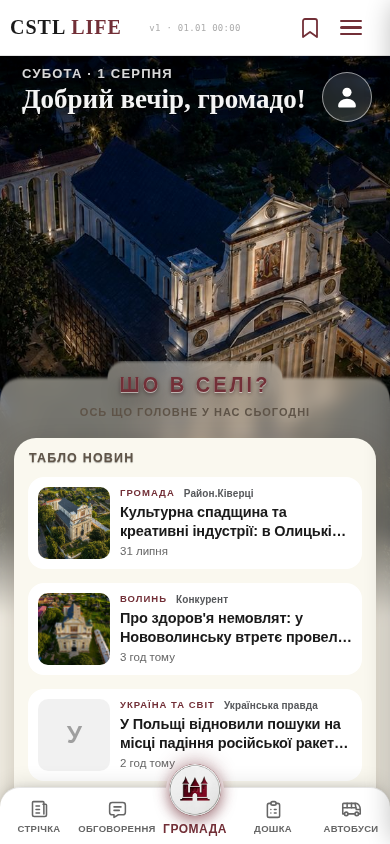
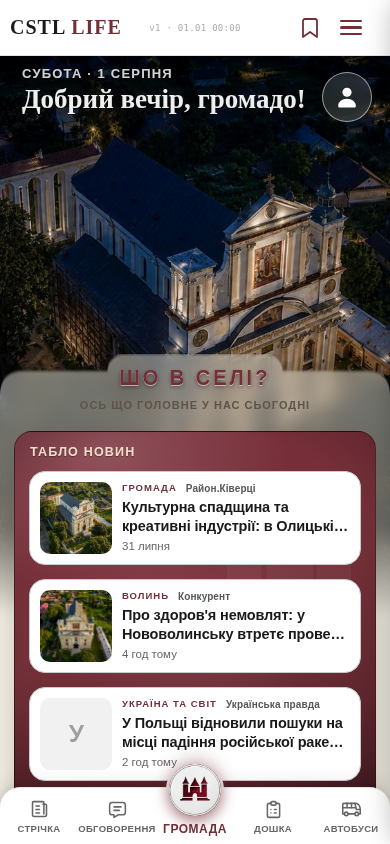
feat(табло): прилад повернуто багряним + обідок сторінки новин на картці
- style/news-card.css: .nc--mini дістав border (обідка не було взагалі —
  заміряно 0px, токен --nc-line не споживав ніхто)
- style/community.css: градієнт, віньєтка, глянець, силует замку і всі
  кольори тексту перевернуто назад під багряне тло; токени картки → --news-card/--news-line
- CACHE_NAME cstl-20260801-1811
- tests/tools/news-road1.mjs: інструмент порівняння доріг (+ serviceWorkers:block,
  без цього підміна фото мовчки не працювала)

Заміряно: картка 92→94px, віджет 408→414px (56.6%), картки рівні 94/94/94.
Стенди 31/31, 462/462.

Changed region(s): [[0.0, 0.4005, 1.0, 0.955], [0.1846, 0.8626, 0.2154, 0.8934]]

diff --git a/style/community.css b/style/community.css
@@ -4300,24 +4300,62 @@ textarea.cm-board-input.bm-invalid {
 
    ⚠ ЦІНА, названа вголос: Громада втрачає багряний акцент. Прийнято Вовою.
    ↩ Повернути прилад = відновити цей блок і `::before` з git-історії (коміт
-      цього рядка), плюс кольори тексту нижче — вони теж перевернуті на світле тло. */
+      цього рядка), плюс кольори тексту нижче — вони теж перевернуті на світле тло.
+
+   🔴 01.08, ПІЗНІШЕ ТОГО САМОГО ДНЯ — ПРИЛАД ПОВЕРНУТО (рішення Вови по знімках).
+   Дорогу 2 (світлий віджет) прожив один деплой. Порівняння зняли інструментом
+   `tests/tools/news-road1.mjs` — обидві дороги на живих фото, у контексті цілого
+   екрана. Що вирішило:
+   • висота однакова (406 проти 408px) — світлий віджет місця не економив;
+   • усі дефекти, через які дорогу 2 і затівали (рвані висоти 100/71/100,
+     перевантажений верхній рядок, різний формат часу), уже полагоджені окремо
+     і від кольору тла НЕ залежать — картки 92/92/92 в обох;
+   • «подвійної межі», яку аудит називав головним дефектом приладу, тут ніколи
+     не було: до зняття стояло `--nc-line: transparent`.
+   ➡ Тобто вибір звівся до характеру, а не до вимірної якості — і характер
+   Вова обрав багряний. Разом із ним ПОВЕРТАЮТЬСЯ кольори тексту нижче.
+   🆕 Відмінність від того, що було до зняття: картка тепер має ОБІДОК того самого
+   токена, що й сторінка новин (`--news-line`) — див. `.cm-news-top3` нижче. */
 .cm-block--news {
   position: relative;
-  background: var(--bg-card);
-  border-radius: var(--card-radius);
-  box-shadow: var(--card-shadow);
+  /* Насичений багряний як табло автобусів: глянець + багряний градієнт у темне +
+     ВІНЬЄТКА (затемнення по контуру) — рішення Роми 08.07, варіант B від 31.07
+     (кути 18, тонша рамка, тихіші тіні, без нижньої inset-лінії). */
+  background:
+    radial-gradient(120% 88% at 50% 42%, rgba(0,0,0,0) 48%, rgba(0,0,0,0.55) 100%),          /* віньєтка по контуру */
+    radial-gradient(120% 80% at 25% 6%, rgba(255,255,255,0.16) 0%, rgba(255,255,255,0) 42%), /* глянець згори */
+    linear-gradient(162deg, #7B303C 0%, #722F37 44%, #481C24 100%);                          /* винно-багряний → затемнений низ */
+  border: 1px solid rgba(0, 0, 0, 0.35);
+  border-radius: 18px;
+  box-shadow:
+    0 8px 20px rgba(0, 0, 0, 0.24),
+    0 2px 6px rgba(0, 0, 0, 0.18),
+    inset 0 1px 0 rgba(255, 255, 255, 0.14);
   overflow: hidden;
 }
-/* 🔴 01.08 — СИЛУЕТ ЗАМКУ ПРИБРАНО, і це вирішив ЗНІМОК, а не смак.
-   Спроба була: лишити силует, лише перефарбувати білі вежі в темні під світлу
-   поверхню. На екрані це дало ТРИ СІРІ ПРЯМОКУТНИКИ у правому куті — читались
-   як артефакт верстки, а не як натяк на замок.
-   Чому так вийшло: на багряному тлі вежі були СВІТЛІШІ за фон, тобто читались
-   як світло, що падає; око добудовувало силует. На світлому вони стали ТЕМНІШІ
-   за фон — тобто предметом, а предмет із трьох прямокутників замком не читається.
-   ➡ Знак, який працює лише в один бік яскравості, не можна просто інвертувати.
-   Той самий урок, що з накладкою шапки Дошки 28.07: «фізика та сама, знак
-   протилежний». Характер віджету тепер несе не тло, а зміст — три розділи. */
+/* Легкий силует замку в кутку — як фоновий акцент табло автобусів.
+   🔴 ІСТОРІЯ, яка пояснює, чому вежі СВІТЛІ і чому їх не можна «просто
+   перефарбувати». Коли 01.08 прилад знімали, силует спробували лишити, зробивши
+   вежі темними під світлу поверхню. На екрані це дало ТРИ СІРІ ПРЯМОКУТНИКИ —
+   артефакт верстки, а не натяк на замок. Причина: на багряному вежі СВІТЛІШІ за
+   фон, тобто читаються як світло, і око добудовує силует; на світлому вони стають
+   предметом, а предмет із трьох прямокутників замком не читається.
+   ➡ Знак, який працює лише в один бік яскравості, не можна інвертувати.
+   Тобто силует прив'язаний до багряного тла і живе рівно доти, доки живе прилад:
+   знімаєш прилад — прибирай і його, а не перефарбовуй. */
+.cm-block--news::before {
+  content: '';
+  position: absolute;
+  top: 34px; right: 18px;
+  width: 190px; height: 130px;
+  background:
+    linear-gradient(#ffffff, #ffffff) 60px 40px / 34px 90px no-repeat,
+    linear-gradient(#ffffff, #ffffff) 100px 10px / 46px 120px no-repeat,
+    linear-gradient(#ffffff, #ffffff) 150px 40px / 34px 90px no-repeat;
+  opacity: 0.035;   /* 31.07 (варіант B): 0.05 → 0.035, силует лише вгадується */
+  pointer-events: none;
+  z-index: 0;
+}
 /* Шапка-табличка табло — з тонкою розділовою гранню під нею.
    🔴 31.07: стала <button> (весь віджет веде в хаб). Через це знадобився скид
    власних стилів кнопки — `border`, `background` і особливо `font: inherit`:
@@ -4340,7 +4378,7 @@ textarea.cm-board-input.bm-invalid {
   text-align: left;
   cursor: pointer;
   -webkit-tap-highlight-color: transparent;
-  color: var(--ink-soft);   /* 01.08: було #F3DECB (кремове на багряному) — прилад знято */
+  color: #F3DECB;   /* 01.08 (прилад повернуто): кремове на багряному */
   font-size: 12.5px;
   font-weight: 800;
   letter-spacing: 1.2px;
@@ -4362,10 +4400,11 @@ textarea.cm-board-input.bm-invalid {
   flex: none;
   padding: 3px 8px;
   border-radius: 999px;
-  /* 01.08: було світле на багряному. Тепер акцент проєкту на світлому — бейдж
-     мусить лишатись помітним, бо це єдине, що каже «є непрочитане». */
-  background: var(--news-accent);
-  color: #FFFFFF;
+  /* 01.08 (прилад повернуто): світла напівпрозора пігулка на багряному.
+     ⚠ Бордовий `--news-accent` тут не годиться — на багряному тлі бейдж
+     зник би, а він єдине, що каже «є непрочитане». */
+  background: rgba(255, 255, 255, 0.16);
+  color: #FFF1F3;
   font-size: 10.5px;
   font-weight: 800;
   letter-spacing: 0.2px;
@@ -4378,8 +4417,10 @@ textarea.cm-board-input.bm-invalid {
 .cm-block--news .cm-block-body {
   position: relative;
   z-index: 1;
-  /* 01.08: рожеве світіння прибрано — воно існувало лише щоб «підсвітити екран
-     приладу» на багряному тлі. На світлій поверхні воно давало брудну пляму. */
+  /* 01.08 (прилад повернуто): мʼяке центральне світіння «екрана» — воно має сенс
+     рівно доти, доки тло багряне; на світлій поверхні давало брудну пляму. */
+  background:
+    radial-gradient(75% 55% at 50% 50%, rgba(255, 170, 185, 0.16) 0%, rgba(255, 140, 160, 0.04) 48%, rgba(255, 140, 160, 0) 72%);
   margin: 0 4px;
   padding: 2px 10px;   /* +6px боків (перенесено з .cm-news-feed): це НЕ-overflow батько → бокова винна зона тепер скролить СТОРІНКУ, а не стрічку (п.10) */
   touch-action: pan-y;   /* 12.07: явна підказка Safari — ця зона віддає вертикальний свайп СТОРІНЦІ, не бореться зі стрічкою всередині (п.10, посилення) */
@@ -4397,7 +4438,7 @@ textarea.cm-board-input.bm-invalid {
   z-index: 1;
   padding: 0 12px 10px;
   margin-top: 6px;
-  border-top: 1px solid rgba(0, 0, 0, 0.08);   /* 01.08: було світле на багряному */
+  border-top: 1px solid rgba(255, 255, 255, 0.16);   /* 01.08 (прилад повернуто): світле на багряному */
 }
 
 /* 🔴 31.07: ТРИ ЧІПИ-ФІЛЬТРИ ПРИБРАНІ (рішення Вови) — разом із ними пішли
@@ -4415,7 +4456,7 @@ textarea.cm-board-input.bm-invalid {
   padding: 11px 4px 9px;
   border: none;
   background: transparent;
-  color: var(--news-accent);   /* 01.08: було кремове на багряному; акцент лишає дію помітною */
+  color: rgba(255, 236, 240, 0.92);   /* 01.08 (прилад повернуто): кремове на багряному */
   /* 🔴 31.07 (крок 6). Вова: «УСІ НОВИНИ треба, може, ВЕЛИКИМИ БУКВАМИ написати,
      бо так буде краще». Капс тут доречний і структурно: це не речення, а назва
      дії — рівно як «ТАБЛО НОВИН» у шапці того самого віджета, яке вже капсом.
@@ -4430,7 +4471,7 @@ textarea.cm-board-input.bm-invalid {
   -webkit-tap-highlight-color: transparent;
 }
 .cm-news-all svg { width: 16px; height: 16px; }
-.cm-news-all:active { opacity: 0.6; }   /* 01.08: було color:#fff — на світлому це зникнення */
+.cm-news-all:active { color: #fff; }   /* 01.08 (прилад повернуто): натиск = яскравішає до білого */
 
 /* 🔴 31.07: `.cm-news-feed` (вкладений скролер) ВИДАЛЕНО РАЗОМ ІЗ ПРАВИЛАМИ.
    Він мав `max-height: 465px; overflow-y: auto` при вмісті 6 933px — тобто ховав
@@ -4467,18 +4508,28 @@ textarea.cm-board-input.bm-invalid {
 .cm-news-top3 {
   --nc-accent: var(--news-accent);
   --nc-excl: #9A6B00;
-  /* 🔴 01.08 (дорога 2): картка стала БІЛОЮ З ОБІДКОМ — так само, як у хабі.
-     Раніше тут було `--nc-card: var(--bg-card)` без обідка: на багряному тлі
-     картка виступала сама, і сірий обідок хаба читався б як чужа деталь. Коли
-     прилад знято, тло під карткою стало тим самим `--bg-card` — тобто картка
-     зливалася б із блоком, і межу мусить дати саме обідок.
-     ➡ Побічна вигода, заради якої все й робилось: віджет і хаб тепер малюють
-     новину ОДНАКОВО. Вова 01.08 про хаб: «треба як було до цього, в ободку».
+  /* 🔴 01.08 — КАРТКА БЕРЕ ТІ САМІ ТОКЕНИ, ЩО Й СТОРІНКА НОВИН.
+     Замовлення Вови дослівно: «добав ободок такий, як в відкритій сторінці
+     новини». Тому тут не власні значення, а рівно ті, якими малюється картка
+     хаба (`style/base.css`): `--news-card` (біла поверхня) і `--news-line`
+     (обідок `#C9CBCE`). Одна новина — один вигляд на всьому шляху
+     табло → хаб → стаття.
+     ⚠ Знайдено при виконанні: обідка тут не було ВЗАГАЛІ, хоча цей самий
+     коментар раніше стверджував протилежне. Токен виставлявся, але правило
+     `border` мали лише варіанти хаба (`.nc--row` / `.nc--lead`), а варіант
+     табла `.nc--mini` — ні; заміряно на живій сторінці `border-top-width` = 0px.
+     Правило додано в `style/news-card.css`, тобто у КОМПОНЕНТ: форму картки
+     екран описувати не має права, за цим стежить `tests/news-widget.mjs`.
+     🔬 Чому обідок тут працює інакше, ніж у хабі, і це нормально: у хабі він
+     несуча конструкція — біла картка на світлому фоні дає лише **1.162:1**, без
+     обідка вона попливе. На багряному та сама картка дає **9.64:1**, тобто межу
+     тримає саме тло, а обідок лишається тонким кантом, який зшиває вигляд із
+     хабом. Одна деталь — дві різні ролі залежно від фону.
      ⚠ `--nc-radius` задано ЯВНО, бо велика перша й компактні рядки — різні
      варіанти з різними стандартними кутами (14 і 16); у межах одного віджета кути
      мусять збігатись, інакше три картки в стовпчику виглядають зібраними нашвидку. */
-  --nc-card: #FFFFFF;
-  --nc-line: rgba(0, 0, 0, 0.09);
+  --nc-card: var(--news-card);
+  --nc-line: var(--news-line);
   --nc-radius: 16px;
 
   /* 🔴 01.08 — КАТЕГОРІЯ У ВІДЖЕТІ НЕ МАЛЮЄТЬСЯ.

diff --git a/style/news-card.css b/style/news-card.css
@@ -231,12 +231,25 @@ img.nc-img { display: block; object-fit: cover; }
    у таблі карток рівно три, вони лежать на багряному градієнті, і без власної
    поверхні текст ліг би просто на фон. Мініатюра 72×72 тримає рядок ~96px
    ОДНАКОВИМ незалежно від того, чи є в новини фото. */
+/* 🔴 01.08 — ОБІДОК ДОДАНО (замовлення Вови: «добав ободок такий, як у відкритій
+   сторінці новини»). Тобто той самий засіб і той самий токен, що в `.nc--row` /
+   `.nc--lead` вище, — новина обводиться однаково скрізь, де вона показується.
+   ⚠ Знайдено при виконанні: обідка тут не було ВЗАГАЛІ, хоча коментар у
+   `community.css` стверджував «картка стала білою з обідком, як у хабі».
+   Заміряно на живій сторінці: `border-top-width` = **0px**, тобто токен
+   `--nc-line`, який віджет сумлінно виставляв, не споживав ніхто — правило
+   `border` мали лише варіанти хаба. Опис і код розійшлись, і саме цю розбіжність
+   Вова побачив оком.
+   📐 Наслідок розміру, названий до пушу: картка стає на 2px вища і на 2px ширша
+   (по 1px обідка з боку); `padding: 10px` не чіпаємо, тож текстова колонка
+   вужчає рівно на 2px. Заміряно: картка 92 → 94px, віджет 408 → 414px. */
 .nc--mini {
   display: flex;
   align-items: flex-start;
   gap: 10px;
   padding: 10px;
   background: var(--nc-card, var(--bg-card));
+  border: 1px solid var(--nc-line, #C9CBCE);
   border-radius: var(--nc-radius, 16px);
   overflow: hidden;
   transition: opacity 0.15s, transform 0.1s;

diff --git a/sw.js b/sw.js
@@ -1,7 +1,7 @@
 // sw.js — CSTL LIFE Service Worker
 // Кешує статичні файли для офлайн-роботи і швидкого завантаження
 
-const CACHE_NAME = 'cstl-20260801-1521';
+const CACHE_NAME = 'cstl-20260801-1811';
 
 // Precache (попереднє кешування) — статичні файли які не змінюються часто
 // index.html тут — як fallback для офлайну (на fetch використовується network-first)

diff --git a/CSTL NEWS VOVA/_ai-tools/SESSION_STATE_VOVA.md b/CSTL NEWS VOVA/_ai-tools/SESSION_STATE_VOVA.md
@@ -5,6 +5,75 @@
 
 ---
 
+## 📝 2026-08-01 (сесія U) — ТАБЛО НОВИН: ПРИЛАД ПОВЕРНУТО + ОБІДОК СТОРІНКИ НОВИН
+
+**Гілка:** `claude/startuem-6ecnk0` · **`CACHE_NAME = cstl-20260801-1811`** ·
+журнал: `_session-log/vova-2026-08-01.md` · стенди **31/31 · 462/462**.
+
+### Рішення Вови
+Дорога 2 (світлий віджет, PR #734) прожила один деплой. Подивившись знімки обох
+доріг на живих фото і в контексті цілого екрана, Вова: **«Давай багряний, і добав
+ободок такий як в відкритій сторінці новини»**.
+
+### Чим це обґрунтовано (замір, не смак)
+| | зараз | дорога 1 |
+|---|---|---|
+| висота віджета | 406px (55.5%) | 408px (55.8%) |
+| картки | 92/92/92 | 92/92/92 |
+
+➡ Світлий віджет **не давав виграшу**: висота та сама, а всі дефекти, заради яких
+прилад і знімали (рвані висоти 100/71/100, перевантажений верхній рядок, різний
+формат часу), уже полагоджені окремо і від кольору тла не залежать. Тобто вибір
+чесно звівся до характеру — і характер обрано багряний.
+⚠ Заразом зʼясувалось: **«подвійної межі», яку аудит називав головним дефектом
+приладу, ніколи не існувало** — до зняття стояло `--nc-line: transparent`.
+
+### 🔴 ОБІДКА НЕ БУЛО ВЗАГАЛІ — і саме це Вова побачив оком
+Коментар у `community.css` стверджував «картка стала БІЛОЮ З ОБІДКОМ, як у хабі».
+**Заміряно на живій сторінці: `border-top-width` = `0px`.** Токен `--nc-line`
+віджет виставляв, але правило `border` мали лише `.nc--row` / `.nc--lead`
+(варіанти хаба), а варіант табла `.nc--mini` — ні. Опис і код розійшлись.
+➡ Правило додано в **`style/news-card.css`** (компонент), а не у віджет: сторож
+`tests/news-widget.mjs` стежить, щоб екран задавав лише токени.
+
+### Змінено
+- `style/news-card.css` — `.nc--mini` дістав `border: 1px solid var(--nc-line)`.
+- `style/community.css` — повернуто градієнт, віньєтка, глянець, `::before`
+  (силует замку) і всі перевернуті кольори: шапка `#F3DECB`, бейдж «N нових»
+  напівпрозорий, світіння «екрана», світла лінія контролів, «УСІ НОВИНИ» кремове.
+  Токени картки → `var(--news-card)` / `var(--news-line)` — ті самі, що на сторінці новин.
+- `sw.js` — `CACHE_NAME`.
+
+📐 **Опис наслідку справдився до пікселя:** обіцяв картку 92 → 94px і віджет
+408 → 414px; заміряно після — **94/94/94, віджет 414px (56.6%)**.
+
+### 🔬 Чому обідок тут працює інакше, ніж у хабі (і це нормально)
+У хабі він **несуча конструкція**: біла картка на світлому фоні дає лише **1.162:1**.
+На багряному та сама картка дає **9.64:1** — межу тримає тло, а обідок лишається
+тонким кантом, який зшиває вигляд віджета з хабом. Одна деталь, дві ролі.
+
+### 🔴 Дві пастки виміру (обидві ледь не дали хибний висновок)
+1. **«Рвані висоти повернулись» — ні.** Прогін показав 102/102/94, схоже на регрес.
+   Порівняння з чистим HEAD (`git stash`) дало **100/100/92 без моїх змін** — тобто
+   рваність була й до того, а обідок додав рівно +2px усім трьом. Причина рваності:
+   плейсхолдер битого фото `.nc-img.img-fallback` = **80px**, монограма = **72px**.
+   ⬜ **НЕ чіпав** (HOT_RULES №9) — видно лише коли фото не завантажилось.
+2. **Підміна фото в інструменті мовчки не працювала:** лічильник дав `0` попри
+   правило `page.route` — запити через **Service Worker** Playwright не перехоплює,
+   а `sw.js` обслуговує саме картинки. Знімок при цьому виглядав правдоподібно.
+   Полагоджено `serviceWorkers: 'block'`.
+
+### Інструмент
+`tests/tools/news-road1.mjs` — показує обидві дороги накладеним `<style>` поверх
+живої сторінки, з підміною фото на локальні. Бойовий код не чіпає.
+⚠ Наявний `news-roads.mjs` для цього вже не годився: він писався до зняття
+приладу і після #734 показував не ту дорогу.
+
+### ⬜ Чекає живої перевірки Вови
+Шрифт і кольори на iPhone, як обідок читається оком на багряному. З пісочниці недосяжно.
+
+---
+
 ## 📝 2026-08-01 (сесія T) — АУДИТ БЕЗПЕКИ: «анонім лише переглядає» доведено до бази
 
 **Гілка:** `claude/startuem-yky235` · **`CACHE_NAME` НЕ чіпано** — змін у `src/`,

diff --git a/_session-log/vova-2026-08-01.md b/_session-log/vova-2026-08-01.md
@@ -78,3 +78,51 @@
    почався контент»; багряний продовжує темну масу, і межа hero зникає.
 
 ⬜ Чекаю рішення Вови. Бойовий код не чіпав.
+
+---
+
+## Дія 2 — «Давай багряний, і добав ободок такий як в відкритій сторінці новини»
+
+**Рішення Вови:** прилад повертаємо (дорога 1), картці — обідок сторінки новин.
+`CACHE_NAME` 1521 → **`cstl-20260801-1811`**.
+
+### 🔴 Знахідка, яку виявило саме це замовлення: обідка не було ВЗАГАЛІ
+Коментар у бойовому `community.css` стверджував «картка стала БІЛОЮ З ОБІДКОМ —
+так само, як у хабі». **Заміряно на живій сторінці: `border-top-width` = `0px`.**
+Токен `--nc-line` віджет виставляв, але споживати його не було кому — правило
+`border` мали лише `.nc--row` / `.nc--lead` (варіанти хаба), а варіант табла
+`.nc--mini` — ні. Тобто опис і код розійшлись, і саме цю розбіжність Вова побачив
+оком. ➡ Правило додано в `style/news-card.css` (КОМПОНЕНТ), а не у віджет: за цим
+стежить `tests/news-widget.mjs` («табло НЕ перевизначає властивості картки»).
+
+### Змінено
+| Файл | Що |
+|---|---|
+| `style/news-card.css` | `.nc--mini` дістав `border: 1px solid var(--nc-line)` |
+| `style/community.css` | повернуто градієнт + віньєтка + глянець + `::before` (силует замку); назад перевернуто кольори: шапка `#F3DECB`, бейдж «N нових» напівпрозорий, світіння «екрана», лінія контролів світла, «УСІ НОВИНИ» кремове; токени картки → `--news-card` / `--news-line` |
+| `sw.js` | `CACHE_NAME` |
+
+### 📐 Опис наслідку ДО пушу (HOT_RULES №6) — і він справдився точно
+Обіцяв: картка 92 → 94px (по 1px обідка згори й знизу), віджет 408 → 414px.
+Заміряно після: **94/94/94, віджет 414px (56.6%)**. Збіг до пікселя.
+
+### 🔴 Дві пастки виміру, які ледь не дали хибний висновок
+1. **«Рвані висоти повернулись» — ні.** Перший прогін показав 102/102/94, і це
+   виглядало як мій регрес. Перевірка порівнянням з чистим HEAD (`git stash`)
+   дала **100/100/92 без моїх змін** — тобто рваність існувала й до мене, а моя
+   зміна додала рівно +2px усім трьом. Причина рваності інша: плейсхолдер битого
+   фото `.nc-img.img-fallback` міряє **80px**, а монограма — **72px**.
+   ⬜ **НЕ чіпав** (HOT_RULES №9): це видно лише коли фото не завантажилось.
+2. **Підміна фото мовчки не працювала.** Лічильник показав `підмінено: 0`, хоча
+   правило `page.route` стояло: запити через **Service Worker** Playwright не
+   перехоплює, а `sw.js` обслуговує саме картинки. Знімок при цьому виглядав
+   правдоподібно — брехав би тихо. Полагоджено `serviceWorkers: 'block'`;
+   після цього підмінено 2 картинки і висоти стали рівними.
+
+### ✅ Перевірено
+`node build.js` (check-imports 47 файлів чисто) · **`npm test` — 31/31 стендів,
+462/462 перевірок зелені**, зокрема `news-widget 59/59`.
+Знімки бойового стану — `shots/road1/0-зараз*.png`.
+
+⬜ **Не перевірено мною:** живий iPhone (шрифт, реальні кольори OLED, як обідок
+читається оком на багряному). Із пісочниці недосяжно.

diff --git a/CSTL NEWS VOVA/_ai-tools/BYYOU_PLAN.md b/CSTL NEWS VOVA/_ai-tools/BYYOU_PLAN.md
@@ -164,7 +164,23 @@
 - №5 єдиний формат часу
 - №4 розвантажити верхній рядок, де мітка + категорія + джерело йдуть утрьох
 
-### ⬜ Досі без відповіді: ВІДЖЕТ — дорога 1 чи 2
+### ✅ ВІДПОВІДЬ Є (01.08, сесія U): ДОРОГА 1 — ПРИЛАД ЛИШАЄТЬСЯ БАГРЯНИМ
+
+⚠ **Текст вище застарів на кілька годин — читай цей розділ.** Дорогу 2 (прилад
+знято) встигли змерджити в PR #734 і вона прожила один деплой; далі Вова подивився
+обидві на знімках і сказав: **«Давай багряний, і добав ободок такий як в відкритій
+сторінці новини»**.
+
+**Чому не смак, а замір:** висота однакова (406 проти 408px), картки 92/92/92 в
+обох, а всі дефекти з аудиту (рвані висоти, перевантажений верхній рядок, формат
+часу) уже полагоджені окремо і від кольору тла не залежать. Заразом виявилось, що
+**«подвійної межі» у віджеті ніколи не було** — до зняття стояло `--nc-line: transparent`.
+
+🔴 **І головне, що знайшло це замовлення: обідка не було ВЗАГАЛІ.** Заміряно
+`border-top-width` = `0px`: токен `--nc-line` віджет виставляв, а правило `border`
+мали лише варіанти хаба (`.nc--row` / `.nc--lead`), не `.nc--mini`. Додано в
+`style/news-card.css`. Деталі, числа й дві пастки виміру — `SESSION_STATE_VOVA.md`,
+сесія U; інструмент порівняння — `tests/tools/news-road1.mjs`.
 
 ---
 
